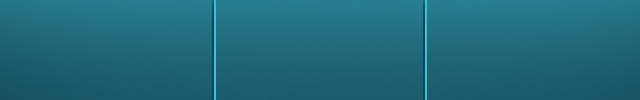
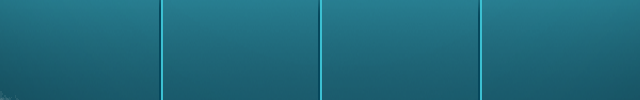
Added favourites tab. Updated logic for creating and opening sessions.

diff --git a/Samples/OpenPeerSampleApp/OpenPeerSampleApp/MainViewController.m b/Samples/OpenPeerSampleApp/OpenPeerSampleApp/MainViewController.m
@@ -167,6 +167,18 @@
         UINavigationController *contactsNavigationController = [[UINavigationController alloc] initWithRootViewController:self.contactsTableViewController];
         contactsNavigationController.navigationBar.translucent = NO;
         
+        //Favorites tab
+        self.favoritesTableViewController = [[ContactsViewController alloc] initInFavoritesMode:YES];
+        self.favoritesTableViewController.title = @"Favorites";
+        self.tabBarItem.title = @"FAVORITES";
+        
+        [self.favoritesTableViewController.tabBarItem setImage:[[UIImage imageNamed:@"iPhone_tabBar_contacts_inactive.png"] imageWithRenderingMode:UIImageRenderingModeAlwaysOriginal]];
+        [self.favoritesTableViewController.tabBarItem setSelectedImage:[[UIImage imageNamed:@"iPhone_tabBar_contacts_active.png"] imageWithRenderingMode:UIImageRenderingModeAlwaysOriginal]];
+        
+        
+        UINavigationController *favoritesNavigationController = [[UINavigationController alloc] initWithRootViewController:self.favoritesTableViewController];
+        favoritesNavigationController.navigationBar.translucent = NO;
+        
         //Active sessions tab
         self.activeSessionsViewController = [[ActiveSessionsViewController alloc] initWithNibName:@"ActiveSessionsViewController" bundle:nil];
         self.activeSessionsViewController.title = @"Chats";
@@ -197,7 +209,7 @@
         //Tab
         self.tabBarController = [[UITabBarController alloc] init];
         self.tabBarController.delegate = self;
-        self.tabBarController.viewControllers = [NSArray arrayWithObjects:contactsNavigationController, activeSessionsNavigationController,settingsNavigationController, nil];
+        self.tabBarController.viewControllers = [NSArray arrayWithObjects:contactsNavigationController, favoritesNavigationController, activeSessionsNavigationController,settingsNavigationController, nil];
         
         self.tabBarController.view.frame = self.view.bounds;
         [self.tabBarController.tabBar setBackgroundImage:[UIImage imageNamed:@"iPhone_tabBar_bkgd.png"]];
@@ -272,16 +284,21 @@
     OPLog(HOPLoggerSeverityInformational, HOPLoggerLevelTrace, @"Transition %d for session with id:%@ and for participant:%@",transition,[session.conversationThread getThreadId],title);
     UINavigationController* navigationController = nil;
     
-    switch ([self.tabBarController selectedIndex])
-    {
-        case 1:
-            navigationController = (UINavigationController*)[[self.tabBarController viewControllers] objectAtIndex:1];
-            break;
-            
-        default:
-            navigationController = (UINavigationController*)[[self.tabBarController viewControllers] objectAtIndex:0];
-            break;
-    }
+//    switch ([self.tabBarController selectedIndex])
+//    {
+//        case 2:
+//            navigationController = (UINavigationController*)[[self.tabBarController viewControllers] objectAtIndex:2];
+//            break;
+//            
+//        default:
+//            navigationController = (UINavigationController*)[[self.tabBarController viewControllers] objectAtIndex:0];
+//            break;
+//    }
+    
+    int tabIndex = [self.tabBarController selectedIndex] < 3 ? [self.tabBarController selectedIndex] : 2;
+    
+    navigationController = (UINavigationController*)[[self.tabBarController viewControllers] objectAtIndex:tabIndex];
+    
     switch (transition)
     {
         case NEW_SESSION_SWITCH:
@@ -364,16 +381,20 @@
     SessionViewController_iPhone* sessionViewContorller = [self.sessionViewControllersDictionary objectForKey:sessionId];
     UINavigationController* navigationController = nil;//(UINavigationController*)[[self.tabBarController viewControllers] objectAtIndex:0];
     
-    switch ([self.tabBarController selectedIndex])
-    {
-        case 1:
-            navigationController = (UINavigationController*)[[self.tabBarController viewControllers] objectAtIndex:1];
-            break;
-            
-        default:
-            navigationController = (UINavigationController*)[[self.tabBarController viewControllers] objectAtIndex:0];
-            break;
-    }
+//    switch ([self.tabBarController selectedIndex])
+//    {
+//        case 2:
+//            navigationController = (UINavigationController*)[[self.tabBarController viewControllers] objectAtIndex:1];
+//            break;
+//            
+//        default:
+//            navigationController = (UINavigationController*)[[self.tabBarController viewControllers] objectAtIndex:0];
+//            break;
+//    }
+    
+    int tabIndex = [self.tabBarController selectedIndex] < 3 ? [self.tabBarController selectedIndex] : 2;
+    
+    navigationController = (UINavigationController*)[[self.tabBarController viewControllers] objectAtIndex:tabIndex];
     
     if (!sessionViewContorller)
     {

diff --git a/Samples/OpenPeerSampleApp/OpenPeerSampleApp/ContactsViewController.m b/Samples/OpenPeerSampleApp/OpenPeerSampleApp/ContactsViewController.m
@@ -73,12 +73,23 @@
     return _listOfSelectedContacts;
 }
 
+- (id) initInFavoritesMode:(BOOL) favoritesMode
+{
+    self = [self initWithNibName:@"ContactsViewController" bundle:nil];
+    if (self)
+    {
+        self.isInFavoritesMode = YES;
+    }
+    return self;
+}
+
 - (id)initWithNibName:(NSString *)nibNameOrNil bundle:(NSBundle *)nibBundleOrNil
 {
     self = [super initWithNibName:nibNameOrNil bundle:nibBundleOrNil];
     if (self)
     {
         self.keyboardIsHidden = YES;
+        self.isInFavoritesMode = NO;
     }
     return self;
 }
@@ -120,7 +131,7 @@
 
 - (void)viewWillAppear:(BOOL)animated
 {
-    self.navigationItem.title = @"Contacts";
+    self.navigationItem.title = self.isInFavoritesMode ? @"Favorites" : @"Contacts";
     [self.contactsTableView reloadRowsAtIndexPaths:[self.contactsTableView indexPathsForVisibleRows]
                      withRowAnimation:UITableViewRowAnimationNone];
 }
@@ -285,13 +296,31 @@
         return _fetchedResultsController;
     }
     
+    NSString *cacheName = nil;
     
     NSFetchRequest *fetchRequest = [[NSFetchRequest alloc] init];
     NSEntityDescription *entity = [NSEntityDescription entityForName:@"HOPRolodexContact" inManagedObjectContext:[[HOPModelManager sharedModelManager] managedObjectContext]];
     [fetchRequest setEntity:entity];
     
-    NSPredicate *predicate = [NSPredicate predicateWithFormat:[NSString stringWithFormat:@"(associatedIdentity.homeUser.stableId MATCHES '%@')",[[HOPModelManager sharedModelManager] getLastLoggedInHomeUser].stableId]];
-    [fetchRequest setPredicate:predicate];
+    NSMutableArray *predicatesArray = [[NSMutableArray alloc] init];
+    NSPredicate *predicateOnlyOpenPeerContacts = nil;
+    if (self.isInFavoritesMode)
+    {
+        predicateOnlyOpenPeerContacts = [NSPredicate predicateWithFormat:@"identityContact != nil"];
+        [predicatesArray addObject:predicateOnlyOpenPeerContacts];
+        cacheName = @"FavoritesContacts";
+    }
+    else
+    {
+        cacheName = @"RolodexContacts";
+    }
+    
+    NSPredicate *predicateAllContacts = [NSPredicate predicateWithFormat:[NSString stringWithFormat:@"(associatedIdentity.homeUser.stableId MATCHES '%@')",[[HOPModelManager sharedModelManager] getLastLoggedInHomeUser].stableId]];
+    
+    [predicatesArray addObject:predicateAllContacts];
+    
+    NSPredicate *mainPredicate = [NSCompoundPredicate andPredicateWithSubpredicates:predicatesArray];
+    [fetchRequest setPredicate:mainPredicate];
     
 	[fetchRequest setFetchBatchSize:20];
 	
@@ -302,7 +331,11 @@
     
 	//_fetchedResultsController = [[NSFetchedResultsController alloc] initWithFetchRequest:fetchRequest managedObjectContext:[[HOPModelManager sharedModelManager] managedObjectContext] sectionNameKeyPath:@"firstLetter" cacheName:@"RolodexContacts"];
     
-    _fetchedResultsController = [[NSFetchedResultsController alloc] initWithFetchRequest:fetchRequest managedObjectContext:[[HOPModelManager sharedModelManager] managedObjectContext] sectionNameKeyPath:nil cacheName:@"RolodexContacts"];
+    if (!self.isInFavoritesMode)
+        _fetchedResultsController = [[NSFetchedResultsController alloc] initWithFetchRequest:fetchRequest managedObjectContext:[[HOPModelManager sharedModelManager] managedObjectContext] sectionNameKeyPath:nil cacheName:@"RolodexContacts"];
+    else
+        _fetchedResultsController = [[NSFetchedResultsController alloc] initWithFetchRequest:fetchRequest managedObjectContext:[[HOPModelManager sharedModelManager] managedObjectContext] sectionNameKeyPath:nil cacheName:@"FavoritesContacts"];
+    
     _fetchedResultsController.delegate = self;
     
 	return _fetchedResultsController;
@@ -313,7 +346,10 @@
 	switch (type)
     {
 		case NSFetchedResultsChangeInsert:
-			[self.contactsTableView  insertRowsAtIndexPaths:[NSArray arrayWithObject:newIndexPath] withRowAnimation:UITableViewRowAnimationFade];
+            //if (!self.isInFavoritesMode)
+                [self.contactsTableView  insertRowsAtIndexPaths:[NSArray arrayWithObject:newIndexPath] withRowAnimation:UITableViewRowAnimationFade];
+//            else
+//                [self.contactsTableView reloadData];
 			break;
 		case NSFetchedResultsChangeUpdate:
 			//[[self.contactsTableView cellForRowAtIndexPath:indexPath].textLabel setText:((HOPRolodexContact*)[[[self.fetchedResultsController sections] objectAtIndex:indexPath.section] objectAtIndex:indexPath.row]).name];

diff --git a/Samples/OpenPeerSampleApp/OpenPeerSampleApp/ActiveSessionTableViewCell.m b/Samples/OpenPeerSampleApp/OpenPeerSampleApp/ActiveSessionTableViewCell.m
@@ -60,11 +60,11 @@
 
 - (void)awakeFromNib
 {
-    self.messageView.layer.cornerRadius = 5.0;
-    self.messageView.layer.borderColor = [[UIColor whiteColor] CGColor];
-    self.messageView.layer.borderWidth = 1.0;
-    self.messageView.layer.shadowColor = [[UIColor blackColor] CGColor];
-    self.messageView.layer.shadowOffset = CGSizeMake(1.0, 1.0);
+//    self.messageView.layer.cornerRadius = 5.0;
+//    self.messageView.layer.borderColor = [[UIColor whiteColor] CGColor];
+//    self.messageView.layer.borderWidth = 1.0;
+//    self.messageView.layer.shadowColor = [[UIColor blackColor] CGColor];
+//    self.messageView.layer.shadowOffset = CGSizeMake(1.0, 1.0);
 }
 
 - (void)setSelected:(BOOL)selected animated:(BOOL)animated
@@ -112,6 +112,30 @@
     }
     else
         self.labelLastMessage.hidden = YES;
+    //[self drawInnerShadowOnView:self.messageView];
 }
 
+-(void)drawInnerShadowOnView:(UIView *)view
+{
+    UIImageView *innerShadowView = [[UIImageView alloc] initWithFrame:view.bounds];
+    
+    innerShadowView.contentMode = UIViewContentModeScaleToFill;
+    innerShadowView.autoresizingMask = UIViewAutoresizingFlexibleWidth | UIViewAutoresizingFlexibleHeight;
+    
+    [view addSubview:innerShadowView];
+    
+    [innerShadowView.layer setMasksToBounds:YES];
+    
+    [innerShadowView.layer setBorderColor:[UIColor lightGrayColor].CGColor];
+    [innerShadowView.layer setShadowColor:[UIColor blackColor].CGColor];
+    [innerShadowView.layer setBorderWidth:1.0f];
+    
+    [innerShadowView.layer setShadowOffset:CGSizeMake(0, 0)];
+    [innerShadowView.layer setShadowOpacity:1.0];
+    
+    [innerShadowView.layer setCornerRadius:5.0];
+    
+    // this is the inner shadow thickness
+    [innerShadowView.layer setShadowRadius:1.5];
+}
 @end

diff --git a/Samples/OpenPeerSampleApp/OpenPeerSampleApp/ActiveSessionsViewController.m b/Samples/OpenPeerSampleApp/OpenPeerSampleApp/ActiveSessionsViewController.m
@@ -32,6 +32,7 @@
 #import "ActiveSessionsViewController.h"
 #import <OpenPeerSDK/HOPSessionRecord+External.h>
 #import <OpenPeerSDK/HOPModelManager.h>
+#import <OpenPeerSDK/HOPPublicPeerFile.h>
 #import "SessionManager.h"
 #import "OpenPeer.h"
 #import "MainViewController.h"
@@ -132,8 +133,25 @@
     HOPSessionRecord* record = [self.fetchedResultsController objectAtIndexPath:indexPath];
     if (record)
     {
-//        Session* session = [[SessionManager sharedSessionManager] getSessionForSessionId:record.sessionID];
         Session* session = [[SessionManager sharedSessionManager] getSessionForSessionRecord:record];
+        if (!session)
+        {
+            NSMutableArray* listOfRolodexContacts = [[NSMutableArray alloc] init];
+            for (HOPPublicPeerFile* publicPeerFile in record.participants)
+            {
+                NSArray* rolodexContactsArray = [[HOPModelManager sharedModelManager] getRolodexContactsByPeerURI:publicPeerFile.peerURI];
+                HOPRolodexContact* rolodexContact = [rolodexContactsArray objectAtIndex:0];
+                
+                if (rolodexContact)
+                    [listOfRolodexContacts addObject:rolodexContact];
+            }
+            
+            if([listOfRolodexContacts count] > 0)
+            {
+                session = [[SessionManager sharedSessionManager] createSessionForContact:[listOfRolodexContacts objectAtIndex:0]];
+            }
+        }
+        
         if (session)
             [[[OpenPeer sharedOpenPeer] mainViewController] showSessionViewControllerForSession:session forIncomingCall:NO forIncomingMessage:NO];
     }

diff --git a/Samples/OpenPeerSampleApp/OpenPeerSampleApp/OpenPeer.m b/Samples/OpenPeerSampleApp/OpenPeerSampleApp/OpenPeer.m
@@ -125,7 +125,7 @@
         NSString *libraryPath = [NSSearchPathForDirectoriesInDomains(NSLibraryDirectory, NSUserDomainMask, YES) lastObject];
         NSString *dataPathDirectory = [libraryPath stringByAppendingPathComponent:@"db"];
         [[HOPModelManager sharedModelManager] setDataPath:dataPathDirectory backupData:NO];
-        [[HOPModelManager sharedModelManager] clearSessionRecords];
+        //[[HOPModelManager sharedModelManager] clearSessionRecords];
      
         //Set settigns delegate
         [[HOPSettings sharedSettings] setup];

diff --git a/openpeer-ios-sdk/internal/source/OpenPeerIdentityLookupDelegate.mm b/openpeer-ios-sdk/internal/source/OpenPeerIdentityLookupDelegate.mm
@@ -101,8 +101,9 @@ void OpenPeerIdentityLookupDelegate::updateContactsReceivedOnIdentityLookup(IIde
                         [identityLookup.arrayLastUpdatedContacts addObject:hopIdentityContact];
                     }
                 }
+                [[HOPModelManager sharedModelManager] saveContext];
             }
-            [[HOPModelManager sharedModelManager] saveContext];
+//            [[HOPModelManager sharedModelManager] saveContext];
         }
     }
     else

diff --git a/Samples/OpenPeerSampleApp/OpenPeerSampleApp/MainViewController.h b/Samples/OpenPeerSampleApp/OpenPeerSampleApp/MainViewController.h
@@ -71,6 +71,7 @@ typedef  enum
 
 @property (nonatomic, strong) LoginViewController *loginViewController;
 @property (nonatomic, strong) ContactsViewController *contactsTableViewController;
+@property (nonatomic, strong) ContactsViewController *favoritesTableViewController;
 @property (nonatomic, strong) ActiveSessionsViewController *activeSessionsViewController;
 @property (nonatomic, strong) UITabBarController *tabBarController;
 

diff --git a/Samples/OpenPeerSampleApp/OpenPeerSampleApp/ContactsViewController.h b/Samples/OpenPeerSampleApp/OpenPeerSampleApp/ContactsViewController.h
@@ -37,7 +37,9 @@
 @interface ContactsViewController : UIViewController<UITableViewDelegate, UITableViewDataSource, UIGestureRecognizerDelegate, UISearchBarDelegate, NSFetchedResultsControllerDelegate>
 
 @property (nonatomic, weak) IBOutlet ContactTableViewCell *contactsTableViewCell;
+@property (nonatomic) BOOL isInFavoritesMode;
 
+- (id) initInFavoritesMode:(BOOL) favoritesMode;
 - (void) onContactsLoaded;
 
 @end

diff --git a/Samples/OpenPeerSampleApp/OpenPeerSampleApp/LoginManager.m b/Samples/OpenPeerSampleApp/OpenPeerSampleApp/LoginManager.m
@@ -201,7 +201,7 @@
     }
     
     OPLog(HOPLoggerSeverityInformational, HOPLoggerLevelInsane,@"Clear session records from the database");
-    [[HOPModelManager sharedModelManager] clearSessionRecords];
+    //[[HOPModelManager sharedModelManager] clearSessionRecords];
     
     OPLog(HOPLoggerSeverityInformational, HOPLoggerLevelInsane,@"Release all core objects");
     [[HOPStack sharedStack] doLogoutCleanup];
